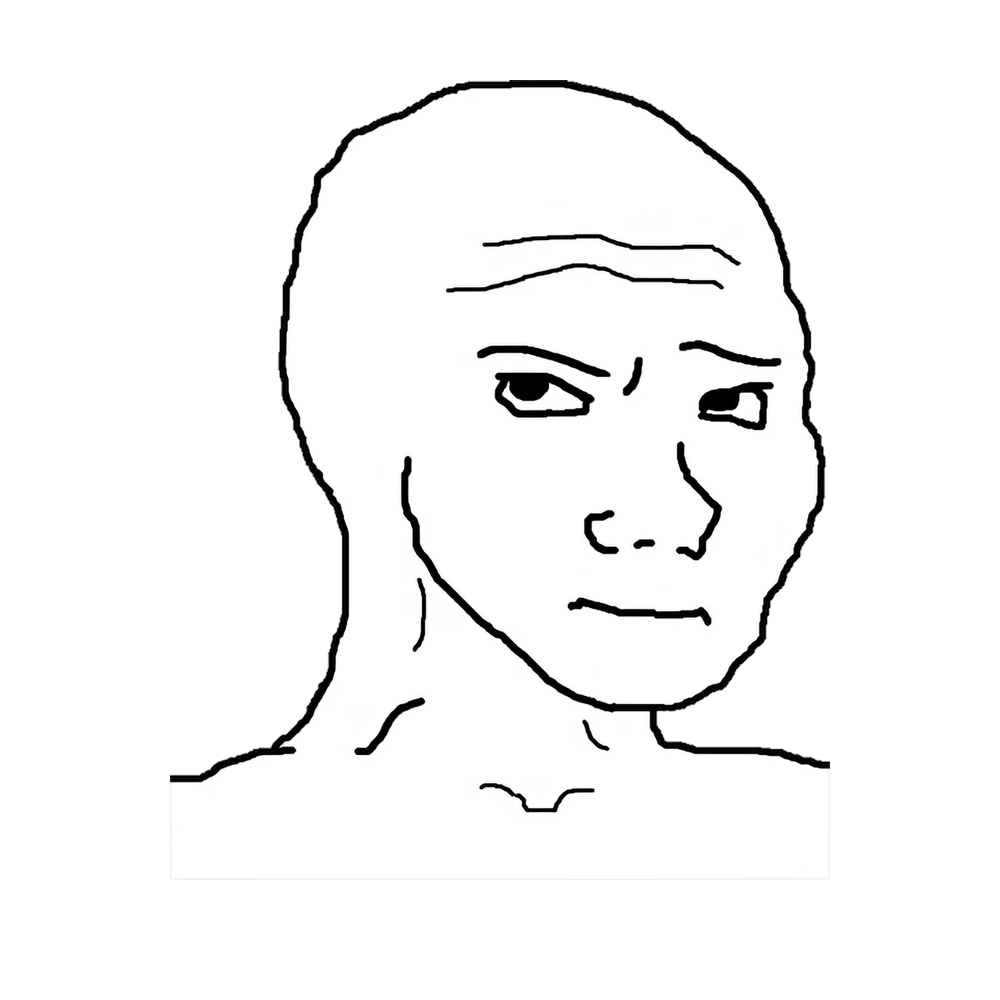
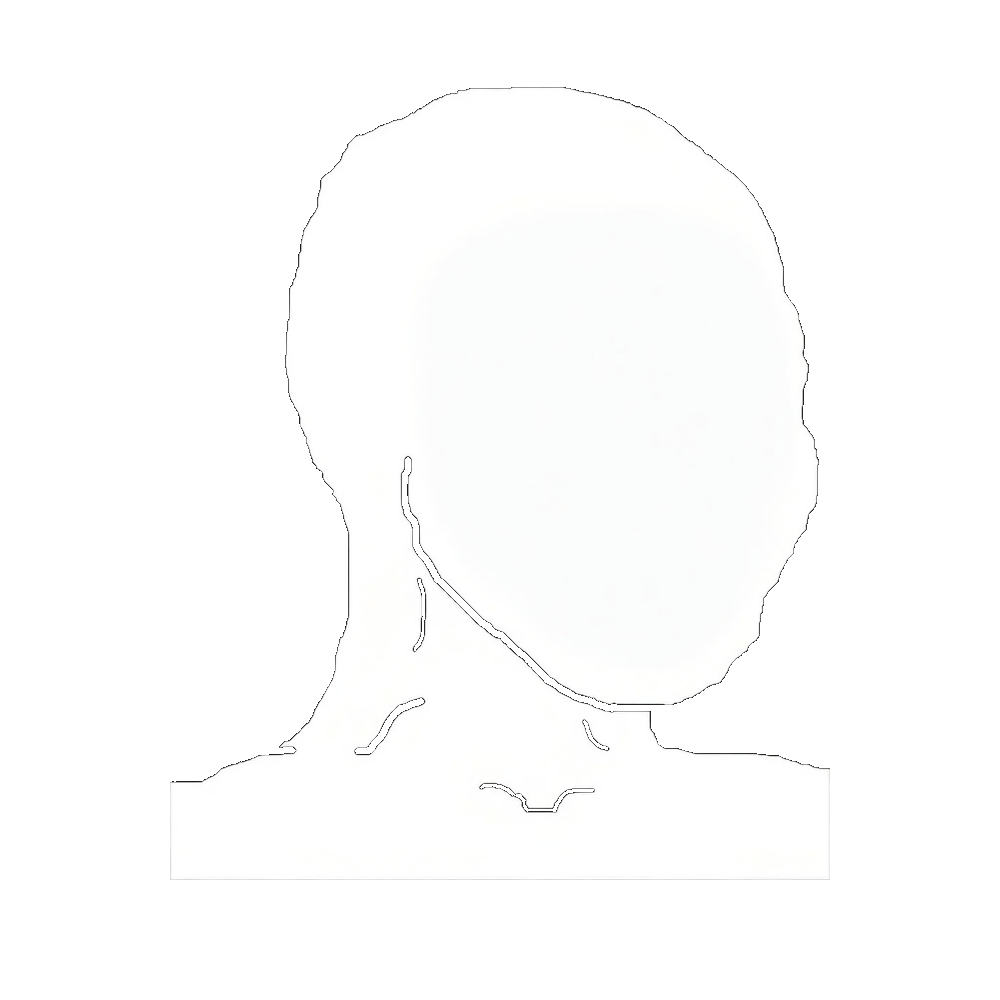
Split body base from face layers
Blank white body (no facial features) is the alignment anchor. Faces are separate layers; clothing/hats/accessories align to the body. Stack is background → body → face → clothing → accessory → hat.

diff --git a/scripts/composite.py b/scripts/composite.py
@@ -1,5 +1,13 @@
 #!/usr/bin/env python3
-"""Composite production layers into a token image + metadata."""
+"""
+Composite production layers.
+
+Stack (bottom → top):
+  background → body → face → clothing → mask → accessory → hat
+
+Body = blank white outline (no facial features).
+Face = expression / eyes / nose / mouth layer (separate files).
+"""
 from __future__ import annotations
 
 import json
@@ -18,6 +26,13 @@ def load_json(path: Path):
 def layer_path(category: str, trait_id: str) -> Path | None:
     if not trait_id or trait_id == "none":
         return None
+    # body uses fixed file when trait_id is "body_base" or "default"
+    if category == "body":
+        for name in (trait_id, "body_base", "master_base"):
+            p = LAYERS / "base" / f"{name}.png"
+            if p.exists():
+                return p
+        return None
     p = LAYERS / category / f"{trait_id}.png"
     return p if p.exists() else None
 
@@ -31,28 +46,30 @@ def alpha_paste(base: Image.Image, overlay_path: Path | None) -> Image.Image:
     return Image.alpha_composite(base, overlay)
 
 
+DEFAULT_ORDER = ["background", "body", "face", "clothing", "mask", "accessory", "hat"]
+
+
 def composite_token(combo: dict[str, Any], canvas: dict | None = None) -> Image.Image:
     sk_path = CONFIG / "template_skeleton.json"
     if canvas is None and sk_path.exists():
         data = load_json(sk_path)
         w, h = data["canvas"]["width"], data["canvas"]["height"]
-        order = data.get(
-            "layer_order",
-            ["background", "face", "clothing", "mask", "accessory", "hat"],
-        )
+        order = data.get("layer_order", DEFAULT_ORDER)
     elif canvas is not None:
         w, h = canvas["width"], canvas["height"]
-        order = canvas.get(
-            "layer_order",
-            ["background", "face", "clothing", "mask", "accessory", "hat"],
-        )
+        order = canvas.get("layer_order", DEFAULT_ORDER)
     else:
         w = h = 1000
-        order = ["background", "face", "clothing", "mask", "accessory", "hat"]
+        order = DEFAULT_ORDER
+
+    # Always include body unless explicitly disabled
+    c = dict(combo)
+    if "body" not in c or not c["body"]:
+        c["body"] = "body_base"
 
     img = Image.new("RGBA", (w, h), (0, 0, 0, 0))
     for cat in order:
-        img = alpha_paste(img, layer_path(cat, combo.get(cat)))
+        img = alpha_paste(img, layer_path(cat, c.get(cat)))
     return img
 
 
@@ -66,6 +83,8 @@ def metadata_for(
     def resolve_name(category: str, tid: str) -> str:
         if tid == "none" or not tid:
             return "None"
+        if category == "body":
+            return "White Body"
         for t in catalog["traits"].get(category, []):
             if t["id"] == tid:
                 return t["name"]
@@ -74,13 +93,18 @@ def metadata_for(
     attrs = []
     for cat, label in [
         ("background", "Background"),
+        ("body", "Body"),
         ("face", "Face"),
         ("clothing", "Clothing"),
         ("hat", "Hat"),
         ("accessory", "Accessory"),
         ("mask", "Mask"),
     ]:
-        attrs.append({"trait_type": label, "value": resolve_name(cat, combo.get(cat, "none"))})
+        tid = combo.get(cat, "none")
+        if cat == "body" and not tid:
+            tid = "body_base"
+        # skip body in attributes if preferred — keep for clarity
+        attrs.append({"trait_type": label, "value": resolve_name(cat, tid)})
 
     meta = rules.get("metadata", {})
     out = {
@@ -106,9 +130,11 @@ def render_and_save(
 ) -> tuple[Path, Path]:
     IMAGES.mkdir(parents=True, exist_ok=True)
     METADATA.mkdir(parents=True, exist_ok=True)
-    img = composite_token(combo, canvas)
+    c = dict(combo)
+    c.setdefault("body", "body_base")
+    img = composite_token(c, canvas)
     img_path = IMAGES / f"{token_id}.png"
     img.save(img_path, format="PNG", optimize=True)
     meta_path = METADATA / f"{token_id}.json"
-    meta_path.write_text(json.dumps(metadata_for(token_id, combo, catalog, rules), indent=2))
+    meta_path.write_text(json.dumps(metadata_for(token_id, c, catalog, rules), indent=2))
     return img_path, meta_path

diff --git a/scripts/preview_trait.py b/scripts/preview_trait.py
@@ -1,5 +1,5 @@
 #!/usr/bin/env python3
-"""Quick composite preview for production QA."""
+"""Preview a composite: body + face + optional traits."""
 from __future__ import annotations
 
 import argparse
@@ -12,7 +12,8 @@ from composite import composite_token
 def main() -> None:
     p = argparse.ArgumentParser()
     p.add_argument("--background", default="void_black")
-    p.add_argument("--face", required=True)
+    p.add_argument("--body", default="body_base")
+    p.add_argument("--face", default="none")
     p.add_argument("--clothing", default="none")
     p.add_argument("--hat", default="none")
     p.add_argument("--accessory", default="none")
@@ -22,6 +23,7 @@ def main() -> None:
 
     combo = {
         "background": args.background,
+        "body": args.body,
         "face": args.face,
         "clothing": args.clothing,
         "hat": args.hat,

diff --git a/README.md b/README.md
@@ -2,54 +2,61 @@
 
 White-base Wojak PFP collection — target **6,666**.
 
-Repo: [buildtogetherlabs/lel](https://github.com/buildtogetherlabs/lel)
+## Architecture (flawless alignment)
 
-## Clean layout
+```
+background
+    + body_base          ← blank white head/neck/shoulders (NO face)
+    + face               ← eyes / expression / features (own files)
+    + clothing           ← drawn to fit body
+    + accessory          ← glasses etc.
+    + hat
+```
+
+**Body and face are separate.** Clothing and hats align to the body outline; glasses align to the face on that body.
+
+## Layout
 
 ```
 layers/
-  base/                 # master white body + workbench (draw here)
-  face/                 # white faces (mass gen) — 53
-  face_special_1of1/    # gray/devil/etc. — later 1-of-1s — 31
-  clothing/             # production redraws (empty until drawn)
-  hat/
-  accessory/
-  background/           # solid BGs — ready
-  mask/
-
-style_ref/              # ORIGINAL trait art — style reference for redraw only
-template/               # docs, queue, skeleton, master copies
-scripts/                # build / preview / generate
-config/
+  base/body_base.png       # blank body (canonical)
+  base/workbench_draw_here.png
+  face/                    # white face layers
+  face_special_1of1/       # later 1-of-1s
+  clothing/ hat/ accessory/  # empty → redraw here
+  background/
+style_ref/                 # originals for design reference
+template/                  # docs + eye style reference
 ```
 
-**Production rule:** clothing, hats, and accessories are drawn **on** the white master body (`layers/base/`), exported as transparent 1000×1000 layers into `layers/{category}/`.
+## Open these
 
-## Start redrawing
+| File | Why |
+|---|---|
+| `layers/base/body_base.png` | Blank body to align everything to |
+| `layers/base/workbench_draw_here.png` | Draw clothing/hats/faces on this |
+| `template/face_eye_reference.jpg` | Correct eye style for face redraws |
+| `template/TRAIT_QUEUE.md` | What to redraw |
+| `template/FLAWLESS_PRODUCTION.md` | How |
 
-1. Open workbench: `layers/base/workbench_draw_here.png`  
-2. Checklist: `template/TRAIT_QUEUE.md`  
-3. Style refs: `style_ref/clothing`, `style_ref/hats`, `style_ref/accessories`, …  
-4. Export finished traits → `layers/clothing/`, `layers/hat/`, `layers/accessory/`  
-5. Full instructions: `template/FLAWLESS_PRODUCTION.md`
+## Commands
 
 ```bash
-cd ~/Projects/wojak-collection   # → Lacie
+cd ~/Projects/wojak-collection
 source .venv/bin/activate
 
+# body only
+python scripts/preview_trait.py --face none --background void_black
+
+# body + a face
+python scripts/preview_trait.py --face wojak_neutral_calm --background paper_white
+
 python scripts/build_catalog.py
-python scripts/preview_trait.py --face wojak_neutral_calm --clothing YOUR_ID
-python scripts/generate_collection.py --count 24
+python scripts/generate_collection.py --count 24   # after clothing exists
 ```
-
-## Layer stack
-
-Background → Face → Clothing → Mask → Accessory → Hat
 
 ## Policy
 
-| Pool | Use |
-|---|---|
-| White faces | Majority collection |
-| Special faces | 1-of-1 later only |
-| style_ref | Look at for design — do not mint as-is |
+- Mass gen: white body + white faces only  
+- Special skins (gray, devil, etc.): 1-of-1 later  
+- `style_ref/`: look only — do not mint as-is  

diff --git a/template/FLAWLESS_PRODUCTION.md b/template/FLAWLESS_PRODUCTION.md
@@ -1,32 +1,44 @@
-# Flawless production — draw ON the white base
+# Flawless production
 
-## Rule
+## Layer model
 
-Every clothing / hat / accessory file must fit `layers/base/master_base.png` with no offset hacks.
-
-## Files
-
-| Path | Role |
+| Layer | What it is |
 |---|---|
-| `layers/base/master_base.png` | Locked white body |
-| `layers/base/workbench_draw_here.png` | **Open this to draw** |
-| `layers/base/blank_1000.png` | Empty canvas |
-| `style_ref/` | Original designs (reference only) |
-| `layers/face/` | White faces (ready) |
-| `layers/clothing|hat|accessory/` | Save finished redraws here |
+| **Body** (`layers/base/body_base.png`) | Blank white head + neck + shoulders. **No eyes, nose, mouth, brows.** |
+| **Face** (`layers/face/*.png`) | Facial features / expressions only, aligned to the blank head. |
+| **Clothing / hat / accessory** | Drawn to fit the **body** outline (and face for glasses). |
 
-## Steps
+Everything else aligns to the body. Faces swap without moving the body or clothes.
 
-1. Open `layers/base/workbench_draw_here.png` (locked).  
-2. Optional: view matching file under `style_ref/` for colors/design.  
-3. Draw trait on new layer fitted to guides (collar / eyes / hat brim).  
-4. Hide workbench. Export **trait only**, 1000×1000 PNG RGBA.  
-5. Save to `layers/{category}/{id}.png`.  
-6. Check off `template/TRAIT_QUEUE.md`.  
-7. QA: `python scripts/preview_trait.py --face wojak_neutral_calm --clothing ID`
+## Eye style
 
-## Do not
+Use `template/face_eye_reference.jpg` as the target for how eyes should look when redrawing face layers.  
+Different faces can have different expressions; they should share the same head placement as `body_base`.
 
-- Use `style_ref` files as final layers  
-- Commit test composites into the repo  
-- Put special faces into mass gen  
+## Draw clothing / hat / accessory
+
+1. Open `layers/base/workbench_draw_here.png` (body + guides).  
+2. Style ref from `style_ref/` if needed.  
+3. Draw trait fitted to body (collar / shoulders / head for hats).  
+4. Export 1000×1000 transparent PNG → `layers/{category}/{id}.png`.
+
+## Draw / fix face layers
+
+1. Body base locked underneath.  
+2. Draw features on the blank face area (eyes like the reference, or other expressions).  
+3. Prefer **features on transparent** over a second full head if possible.  
+4. Save to `layers/face/{id}.png`.  
+
+Existing face files may still include a full head; they work as overlays if the silhouette matches the body. Ideal long-term: features-only faces.
+
+## QA
+
+```bash
+# blank body
+python scripts/preview_trait.py --face none --background void_black --out output/previews/body_only.png
+
+# body + face
+python scripts/preview_trait.py --face wojak_slight_smile --background paper_white
+```
+
+No floating clothes, no shoulder gaps, glasses on eyes, hat on skull.

diff --git a/layers/README.md b/layers/README.md
@@ -1,11 +1,33 @@
 # layers/ — production build
 
-| Folder | Contents |
-|---|---|
-| `base/` | Master white body + workbench |
-| `face/` | White faces for mass gen |
-| `face_special_1of1/` | Later 1-of-1s only |
-| `background/` | Solid backgrounds |
-| `clothing/` `hat/` `accessory/` `mask/` | Production trait layers (redraw onto base) |
+## Stack (bottom → top)
 
-Originals for redraw live in `../style_ref/`.
+1. **background/** — solid colors  
+2. **base/body_base.png** — white body outline only (**no face features**)  
+3. **face/** — facial features / expressions (separate files)  
+4. **clothing/** — drawn to fit the body  
+5. **mask/** — optional  
+6. **accessory/** — glasses etc. (align to face/body)  
+7. **hat/** — align to head outline  
+
+## Base
+
+| File | Role |
+|---|---|
+| `base/body_base.png` | Canonical blank white body (head/neck/shoulders) |
+| `base/master_base.png` | Same as body_base |
+| `base/workbench_draw_here.png` | Body + guides for redrawing traits |
+| `base/blank_1000.png` | Empty canvas |
+
+## Faces
+
+`face/` = white expressions for mass gen.  
+`face_special_1of1/` = gray/devil/etc. later.  
+
+Face layers should supply **eyes, brows, nose, mouth** (and expression lines) aligned to the blank head.  
+Reference for correct eye style: `template/face_eye_reference.jpg`.
+
+## Clothing / hat / accessory
+
+Empty until redrawn onto `body_base`.  
+Style refs: `../style_ref/`.
